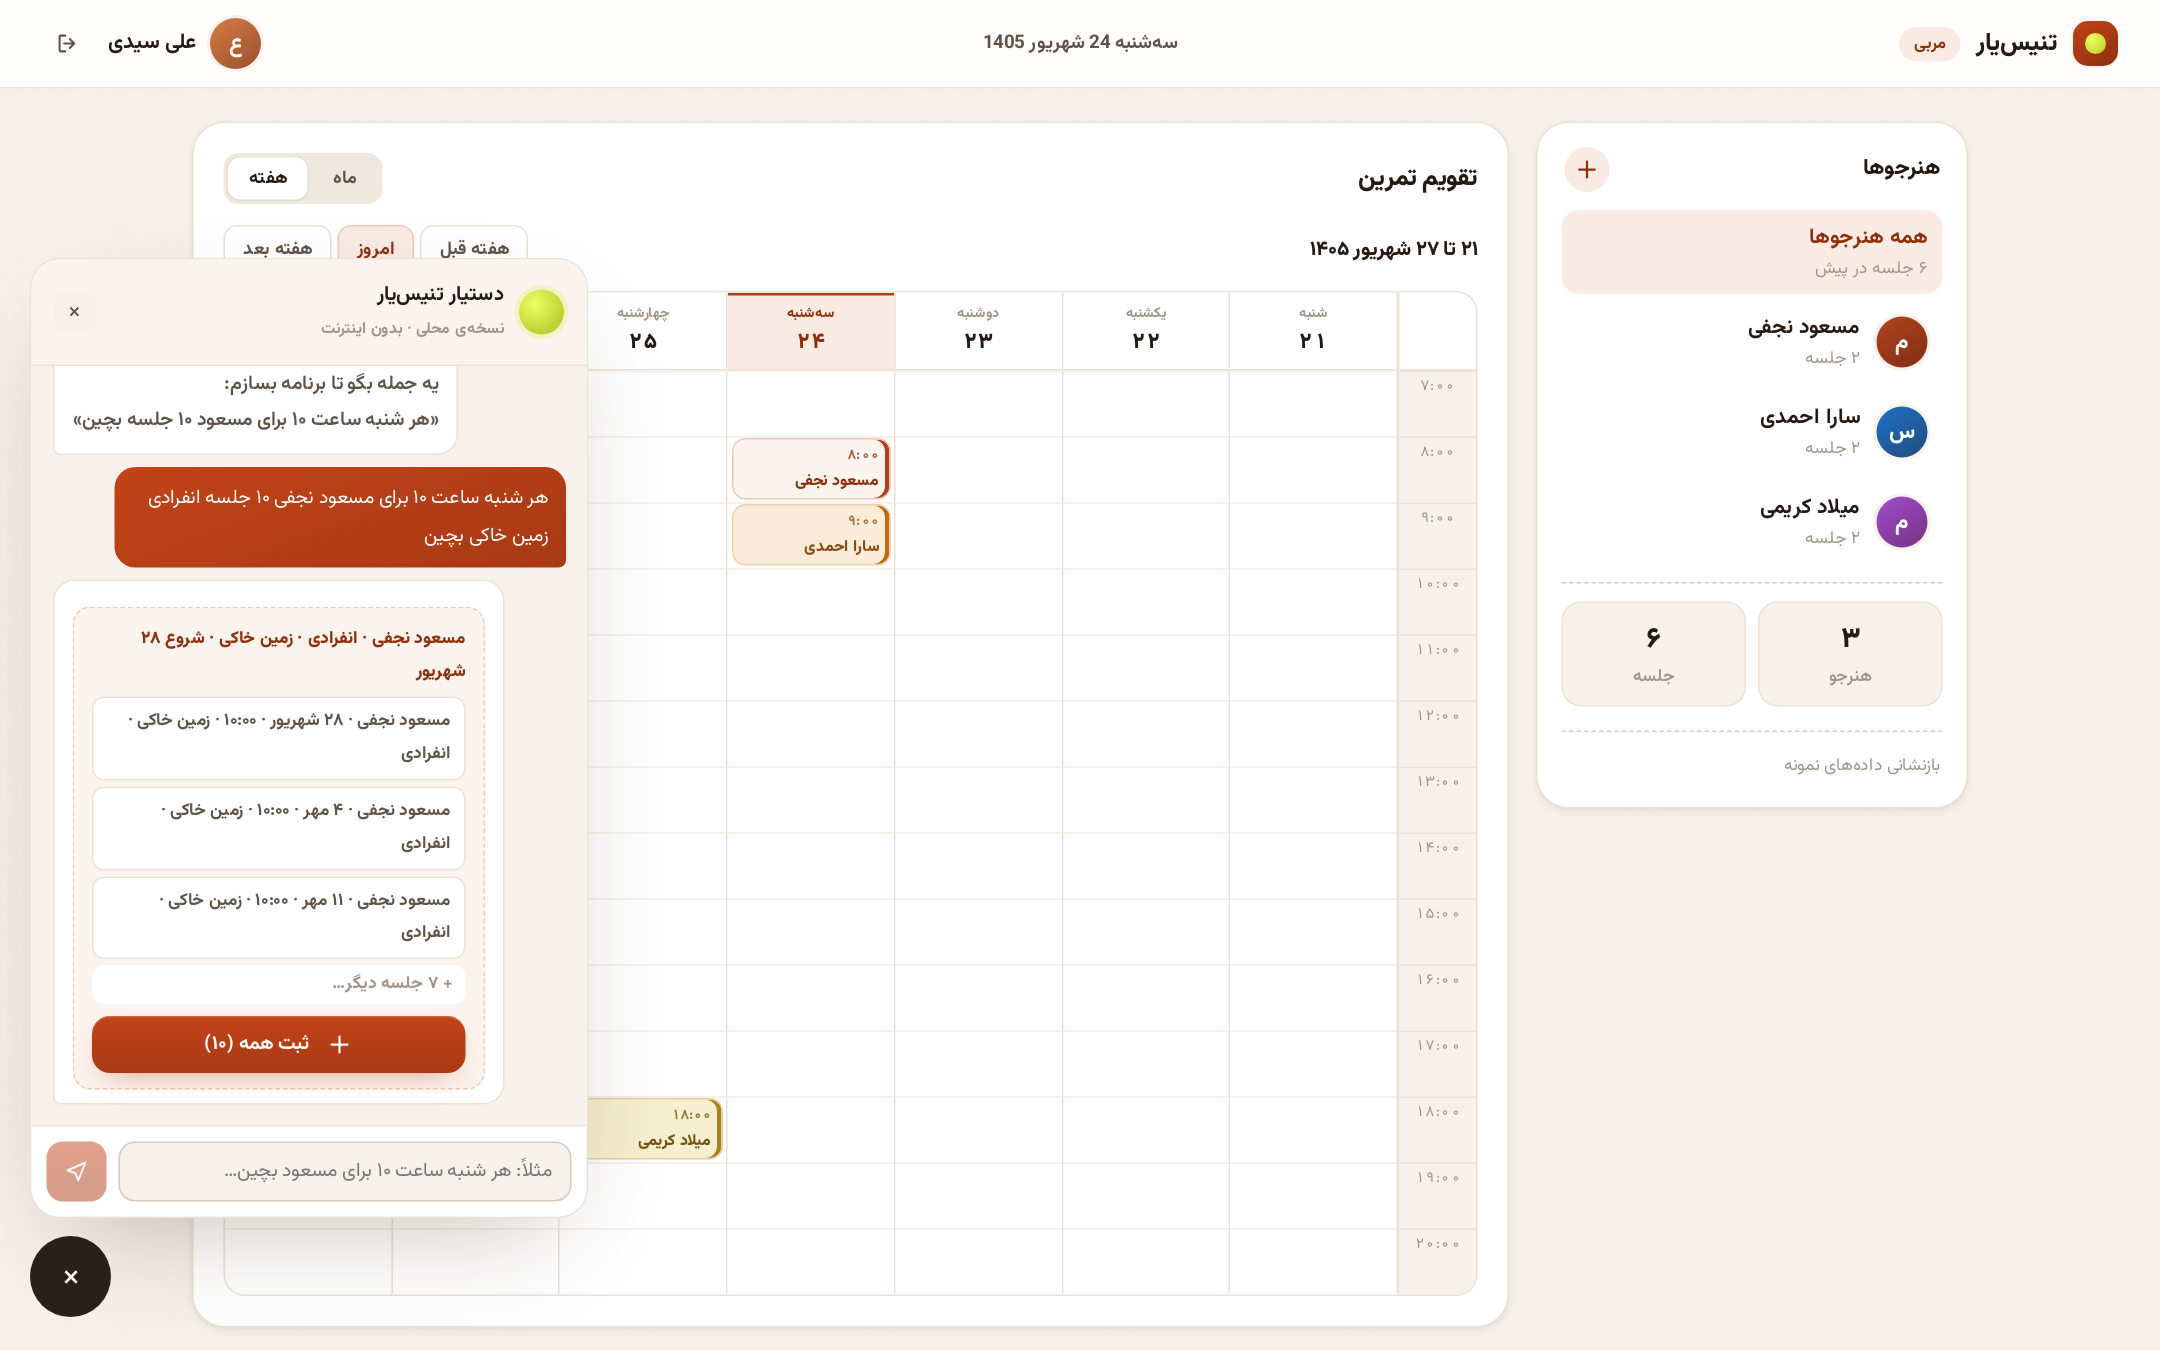
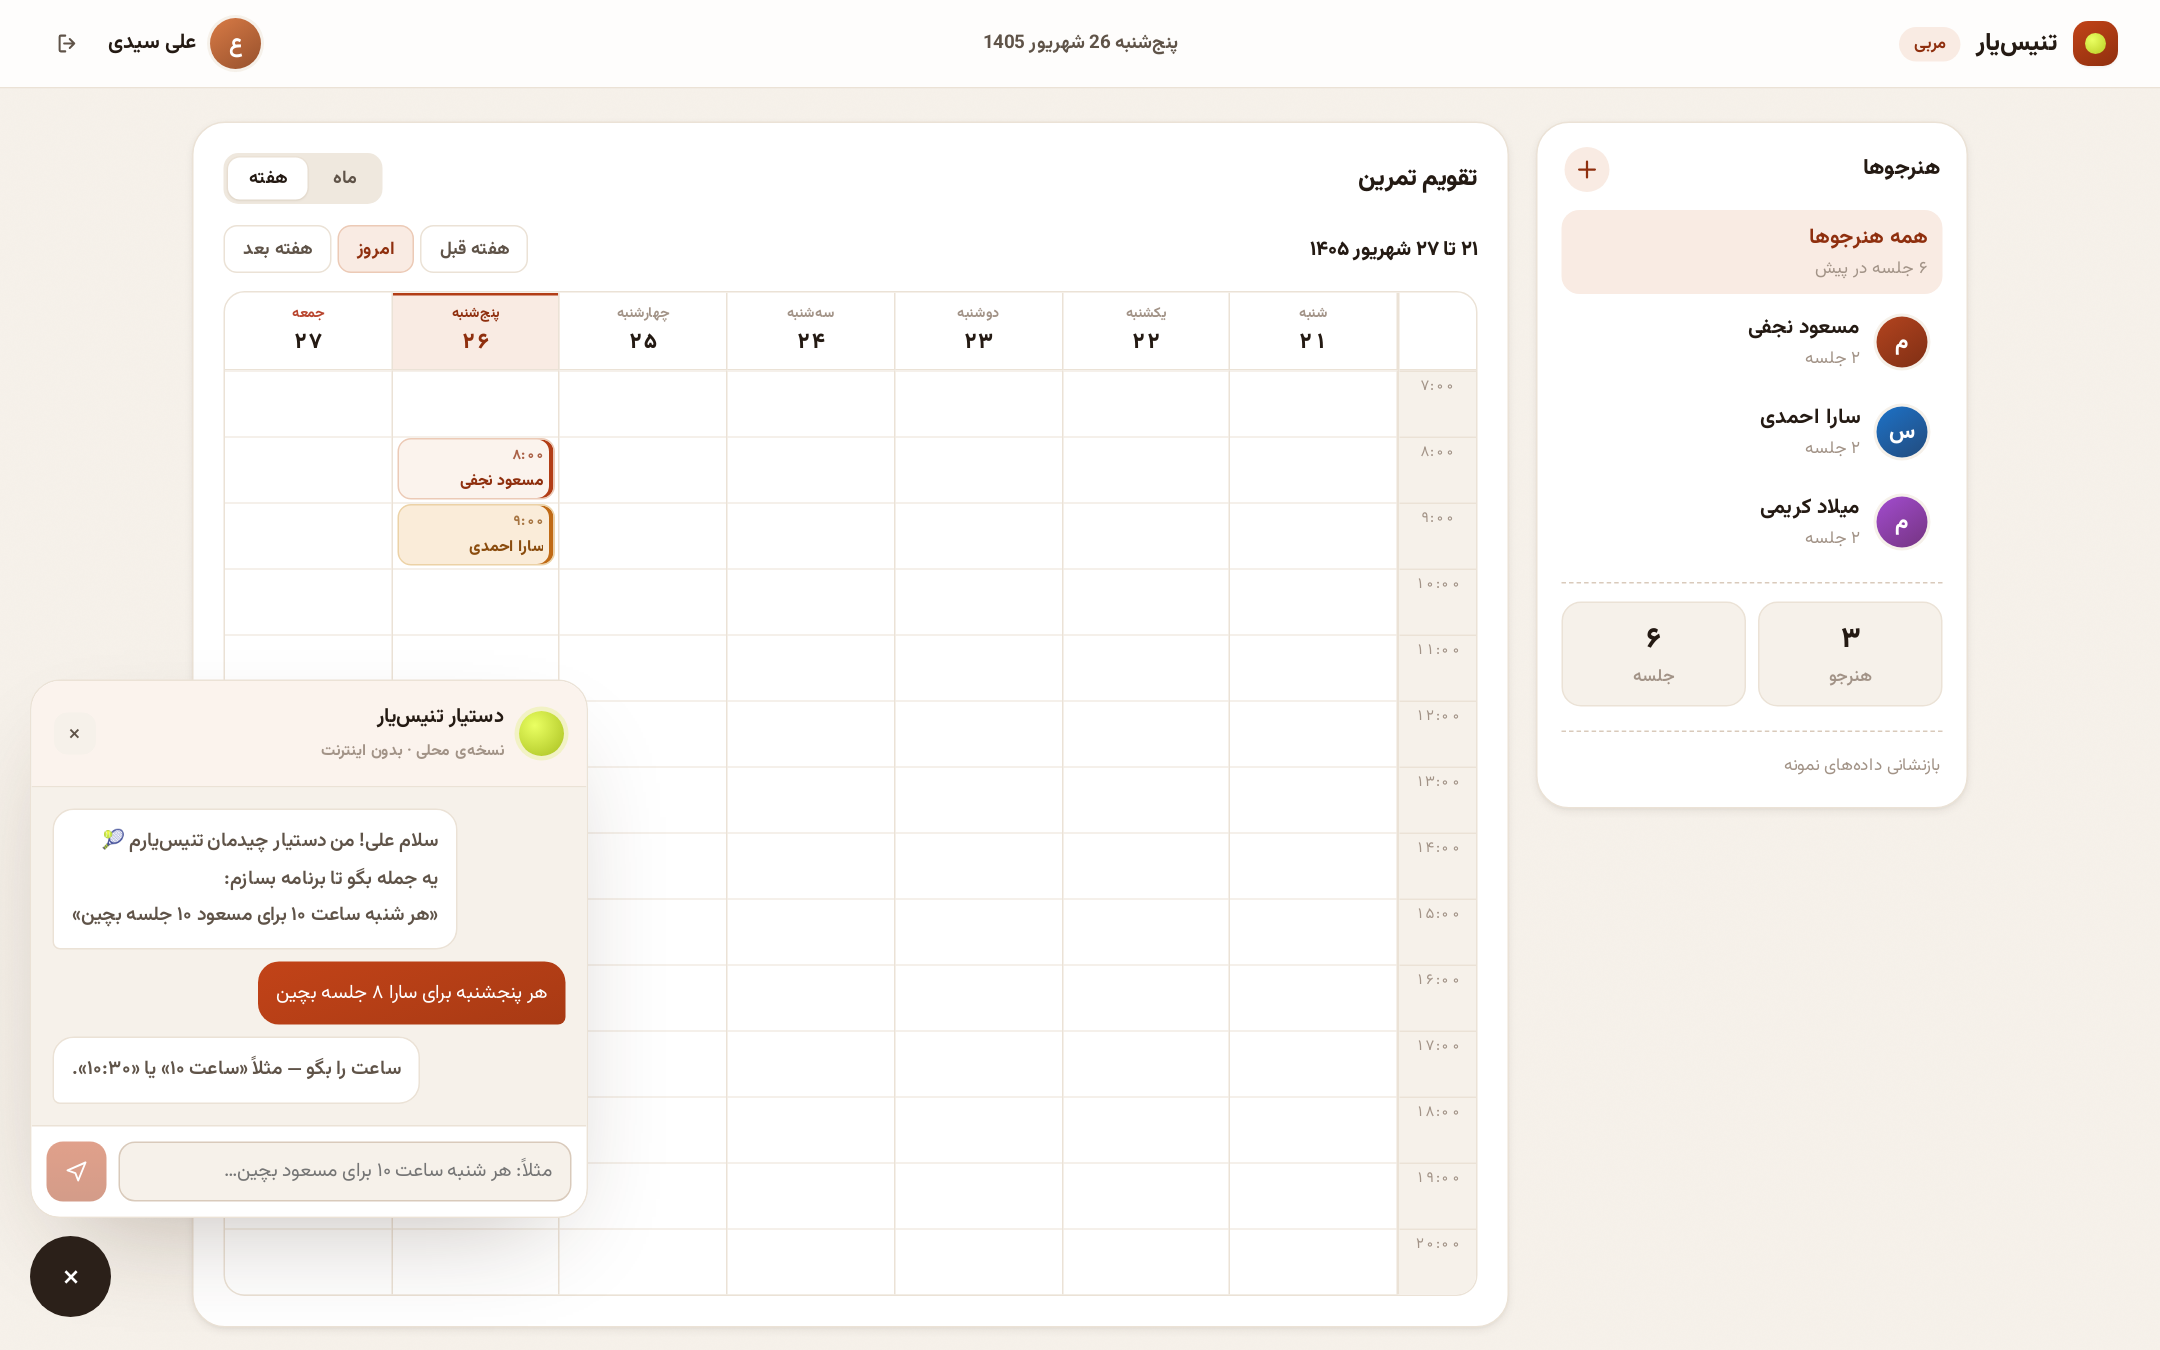
agent fix: multi-turn slot memory (pending ctx), crash-safe send (no more stuck typing), Persian-digit parsing, week-day boundary regex fix (پنجشنبه was matching شنبه)

diff --git a/src/lib/agent.js b/src/lib/agent.js
@@ -73,16 +73,18 @@ function findDay(parsed, today) {
     dow: null,
     label: 'فردا',
   }
-  for (const [w, dow] of Object.entries(WEEK)) {
-    if (parsed.text.includes(w)) {
-      const from = /از /.test(parsed.text) ? addDaysJalali(today, 1) : today
-      let d = from
-      for (let i = 0; i < 8; i++) {
-        if (weekdayIndex(d.jy, d.jm, d.jd) === dow) break
-        d = addDaysJalali(d, 1)
-      }
-      return { day: d, dow: parsed.text.includes('هر ' + w) ? dow : null, label: w }
+  const m = parsed.text.match(/(هر\s+)?(یکشنبه|دوشنبه|سه\s*شنبه|چهارشنبه|پنج\s*شنبه|جمعه|شنبه)/)
+  if (m) {
+    const name = m[2].replace(/\s+/g, '')
+    const dow = WEEK[name]
+    const hasEvery = !!m[1]
+    const from = /از /.test(parsed.text) ? addDaysJalali(today, 1) : today
+    let d = from
+    for (let i = 0; i < 8; i++) {
+      if (weekdayIndex(d.jy, d.jm, d.jd) === dow) break
+      d = addDaysJalali(d, 1)
     }
+    return { day: d, dow: hasEvery ? dow : null, label: name }
   }
   return { day: { ...today }, dow: null, label: null }
 }
@@ -211,17 +213,21 @@ export function faSessionDate(d) {
   return `${toPersianDigits(d.jd)} ${JALALI_MONTH_NAMES[d.jm - 1]}`
 }
 
-export default function runAgent(rawText, { users, sessions }) {
+export default function runAgent(rawText, ctx = {}) {
+  const { users = [], sessions = [], pending = null } = ctx
   const today = todayJalali()
   const parsed = {
-    text: strip(rawText),
+    text: strip(String(rawText ?? '')),
     today,
     users,
     sessions: sessions || [],
   }
 
-  const intent = slugIntent(parsed.text)
   const student = findStudent(parsed, users)
+  const intent =
+    pending && pending.ctx === 'create'
+      ? 'create-continue'
+      : slugIntent(parsed.text)
 
   if (intent === 'delete') {
     if (!student) {
@@ -254,46 +260,65 @@ export default function runAgent(rawText, { users, sessions }) {
 
   if (intent === 'propose') return proposePlan(parsed)
 
-  if (intent === 'create') {
+  if (intent === 'create' || intent === 'create-continue') {
     const dayInfo = findDay(parsed, today)
-    const time = findTime(parsed)
-    if (!student) {
+    /* pending slots survive between turns — new parse fills in gaps */
+    const carry = (pending && pending.ctx === 'create' ? pending.slots : {}) || {}
+    const slots = {
+      studentId: carry.studentId ?? (student ? student.id : null),
+      dow: carry.dow ?? dayInfo.dow,
+      day: carry.day ?? dayInfo.day,
+      time: carry.time ?? findTime(parsed),
+      count: carry.count ?? findCount(parsed),
+      type: carry.type ?? findType(parsed),
+      court: carry.court ?? findCourt(parsed),
+    }
+
+    if (slots.studentId === null) {
       return {
         reply: 'کدام هنرجو؟ اسمش را بگو — مثلاً «مسعود».',
         kind: 'chips',
         chips: users.map((u) => u.name),
+        pending: { ctx: 'create', ask: 'student', slots },
       }
     }
-    if (!time) {
-      return { reply: 'ساعت را بگو — مثلاً «ساعت ۱۰» یا «۱۰:۳۰».' }
+
+    if (slots.time === null) {
+      return {
+        reply: 'ساعت را بگو — مثلاً «ساعت ۱۰» یا «۱۰:۳۰».',
+        pending: { ctx: 'create', ask: 'time', slots },
+      }
     }
-    const dow = dayInfo.dow
-    const count = findCount(parsed)
-    if (count && dow === null) {
-      return { reply: 'برای تکرار باید روز هفته بگو — مثلاً «هر شنبه».' }
+
+    if (slots.count && slots.dow === null) {
+      return {
+        reply: 'برای تکرار باید روز هفته بگو — مثلاً «هر شنبه».',
+        pending: { ctx: 'create', ask: 'day', slots },
+      }
     }
-    const type = findType(parsed)
-    const court = findCourt(parsed)
-    const effectiveCount =
-      count ?? (dow !== null ? 4 : 1)
+
+    const effectiveCount = slots.count ?? (slots.dow !== null ? 4 : 1)
+    const st = users.find((u) => u.id === slots.studentId) || student
     let list = []
-    if (dow !== null) {
-      const aligned = firstAligned(dayInfo.day, dow)
+    if (slots.dow !== null) {
+      const aligned = firstAligned(dayInfo.day, slots.dow)
       for (let i = 0; i < effectiveCount; i++) {
         const d = addDaysJalali(aligned, i * 7)
         list.push({
-          studentId: student.id, jy: d.jy, jm: d.jm, jd: d.jd,
-          hour: time.hour, minute: time.minute, duration: 60, type, court, note: '',
+          studentId: slots.studentId, jy: d.jy, jm: d.jm, jd: d.jd,
+          hour: slots.time.hour, minute: slots.time.minute,
+          duration: 60, type: slots.type, court: slots.court, note: '',
         })
       }
     } else {
       list = [{
-        studentId: student.id, jy: dayInfo.day.jy, jm: dayInfo.day.jm, jd: dayInfo.day.jd,
-        hour: time.hour, minute: time.minute, duration: 60, type, court, note: '',
+        studentId: slots.studentId, jy: slots.day.jy, jm: slots.day.jm, jd: slots.day.jd,
+        hour: slots.time.hour, minute: slots.time.minute,
+        duration: 60, type: slots.type, court: slots.court, note: '',
       }]
     }
     const desc =
-      `${student.name} · ${TYPE_META[type].label} · ${court} · شروع ${faSessionDate(dayInfo.day)}`
+      `${st?.name || '؟'} · ${TYPE_META[slots.type].label} · ${slots.court} · شروع ${faSessionDate(slots.day)}`
     return {
       reply: `پیشنمایش ${toPersianDigits(list.length)} جلسه آماده است:`,
       kind: 'preview',

diff --git a/src/components/AgentDrawer.jsx b/src/components/AgentDrawer.jsx
@@ -44,23 +44,51 @@ export default function AgentDrawer({ users, sessions, onAddSessions, onRemoveSe
   }, [messages, typing])
 
   const send = (text) => {
-    const clean = text.trim()
+    const clean = String(text ?? '').trim()
     if (!clean || typing) return
     setMessages((m) => [...m, { role: 'user', text: clean }])
     setDraft('')
     setTyping(true)
+    /* pending context lives on the last bot message so multi-turn slots survive */
+    const last = messages[messages.length - 1]
+    const pending = last && last.role === 'bot' ? last.pending : null
     typeTimer.current = setTimeout(() => {
-      const answer = runAgent(clean, { users, sessions })
-      setMessages((m) => [...m, { role: 'bot', ...answer }])
+      let answer
+      try {
+        answer = runAgent(clean, { users, sessions, pending })
+      } catch (err) {
+        console.error('agent error:', err)
+        answer = { reply: 'خل — از اول بگو 😅 (جوابی متوجه نشدم توی حافظهم نماند)' }
+      }
+      setMessages((m) => [
+        ...m,
+        {
+          role: 'bot',
+          text: answer.reply,
+          kind: answer.kind,
+          preview: answer.preview,
+          desc: answer.desc,
+          data: answer.data,
+          chips: answer.chips,
+          pending: answer.pending || null,
+        },
+      ])
       setTyping(false)
-    }, 650)
+    }, 500)
   }
 
   const commitPreview = (idx, preview) => {
     onAddSessions(preview)
     setMessages((m) =>
       m.map((msg, i) =>
-        i === idx ? { ...msg, preview: null, text: `ثبت شد ✓ — ${toPersianDigits(preview.length)} جلسه افزوده شد` } : msg,
+        i === idx
+          ? {
+              ...msg,
+              preview: null,
+              pending: null,
+              text: `ثبت شد ✓ — ${toPersianDigits(preview.length)} جلسه افزوده شد`,
+            }
+          : msg,
       ),
     )
   }
@@ -120,11 +148,13 @@ export default function AgentDrawer({ users, sessions, onAddSessions, onRemoveSe
                             title="حذف"
                             onClick={() => {
                               onRemoveSession(s.id)
-                              setMessages((m) =>
-                                m.map((mm, k) =>
-                                  k === i ? { ...mm, text: `حذف شد ✓ — ${sessionLabel(s, users)}`, kind: 'done' } : mm,
-                                ),
-                              )
+                               setMessages((m) =>
+                                 m.map((mm, k) =>
+                                   k === i
+                                     ? { ...mm, text: `حذف شد ✓ — ${sessionLabel(s, users)}`, kind: 'done', pending: null }
+                                     : mm,
+                                 ),
+                               )
                             }}
                           >
                             <TrashIcon />
